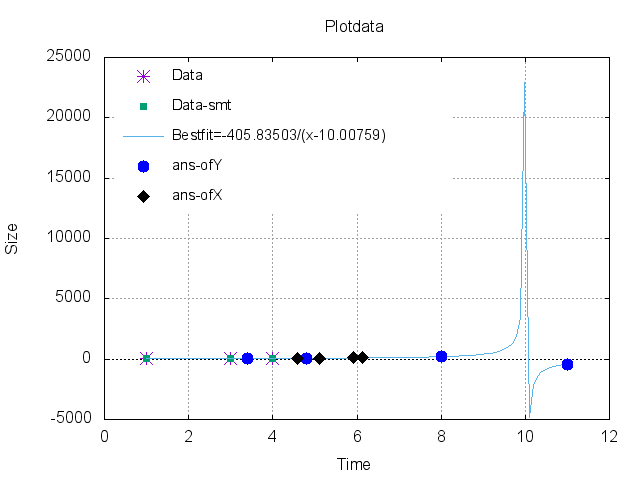
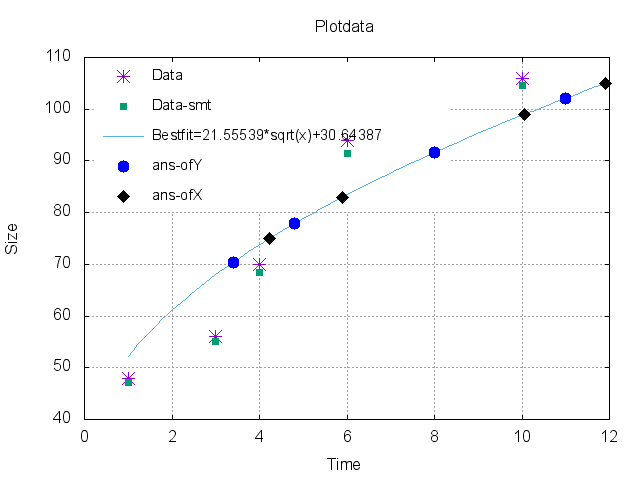
doc: the plotdata.png is upgraded

diff --git a/testing.js b/testing.js
@@ -14,7 +14,7 @@ var   growth = require('./fit/bestfit'),
       path_ansY = __dirname + '/plots/plot_ansy.dat',
       initialpoint =  0.5 ,
       interval =  [-3,5] ,
-      test_array= [[0,40],[1,48],[3,56],[4,70]],
+      test_array= [[0,40],[1,48],[3,56],[4,70],[6,94],[10,106]],
       test_query = [3.4, 4.8, 8, 11] ,
       test_y     = [75,83,99,105] ,
       array1 = [[1,   0,  0,   0,   0,   0],
@@ -31,8 +31,7 @@ var   growth = require('./fit/bestfit'),
      V2= new nsolve.AL.vector([0,-1,1]),
      alpha , smoothing = true, noiseeliminate = false,
      smoothingmethod  ='exponential',
-     fit_methods = ['sqrt','inverse'];
-
+     fit_methods = ['sqrt'];
      function f(x) {
        return   Math.cos(x)-x;
      }
@@ -49,9 +48,8 @@ var   growth = require('./fit/bestfit'),
 
      writedata(path,test_array);
      writedata(path_smt,fit.fitPointsUsed);
-      writedata(path_ansX,fit.ans_ofX);
-      writedata(path_ansY,fit.ans_ofY);
-
+     writedata(path_ansX,fit.ans_ofX);
+     writedata(path_ansY,fit.ans_ofY);
      gnuplot()
      .set('term png')
      .set('output ' +fileplot)
@@ -63,7 +61,10 @@ var   growth = require('./fit/bestfit'),
      .set('zeroaxis')
      .set('autoscale')
      .plot(
-       '"./plots/plot.dat" ps 2 pt 3 t "Data",'+'"./plots/plot_smt.dat" ps 1 pt 5 t "Data-smt",'+function_plot(fit.fitUsed,fit.fitParamsUsed)+'  t "Bestfit='+function_plot(fit.fitUsed,fit.fitParamsUsed)+'","./plots/plot_ansy.dat"  ps 2 pt 7 lc rgb "blue" t "ans-ofY",'+'"./plots/plot_ansx.dat" ps 2 pt 13 lc rgb "black" t "ans-ofX"'
+       '"./plots/plot.dat" ps 2 pt 3 t "Data",'+'"./plots/plot_smt.dat" ps 1 pt 5 t "Data-smt",'+
+       function_plot(fit.fitUsed,fit.fitParamsUsed)+'  t "Bestfit='+
+       function_plot(fit.fitUsed,fit.fitParamsUsed)+'","./plots/plot_ansy.dat"  ps 2 pt 7 lc rgb "blue" t "ans-ofY",'+
+       '"./plots/plot_ansx.dat" ps 2 pt 13 lc rgb "black" t "ans-ofX"'
      )
      .set(' output')
      .end();
@@ -81,21 +82,12 @@ var   growth = require('./fit/bestfit'),
 //console.log('=> fit =', fit.fit_finv );
 //console.log('=> adj =',nsolve.AL.matrix.adj(A).array );
 var start = new Date().getTime() ;
-console.log('aqui antes');
 nsolve.AL.matrix.pow(A,20000,function () {
-      console.log('potencia1=');
     });
-console.log('despues');
-
-
 var start = new Date().getTime() ;
-console.log('aqui antes1');
+
 nsolve.AL.matrix.pow(A,2,function () {
-      console.log('potencia2=');
     });
-console.log('despues2');
-
-
 var end = new Date().getTime() ;
 var time = end - start;
 console.log('Execution time: ' + time/1000);
